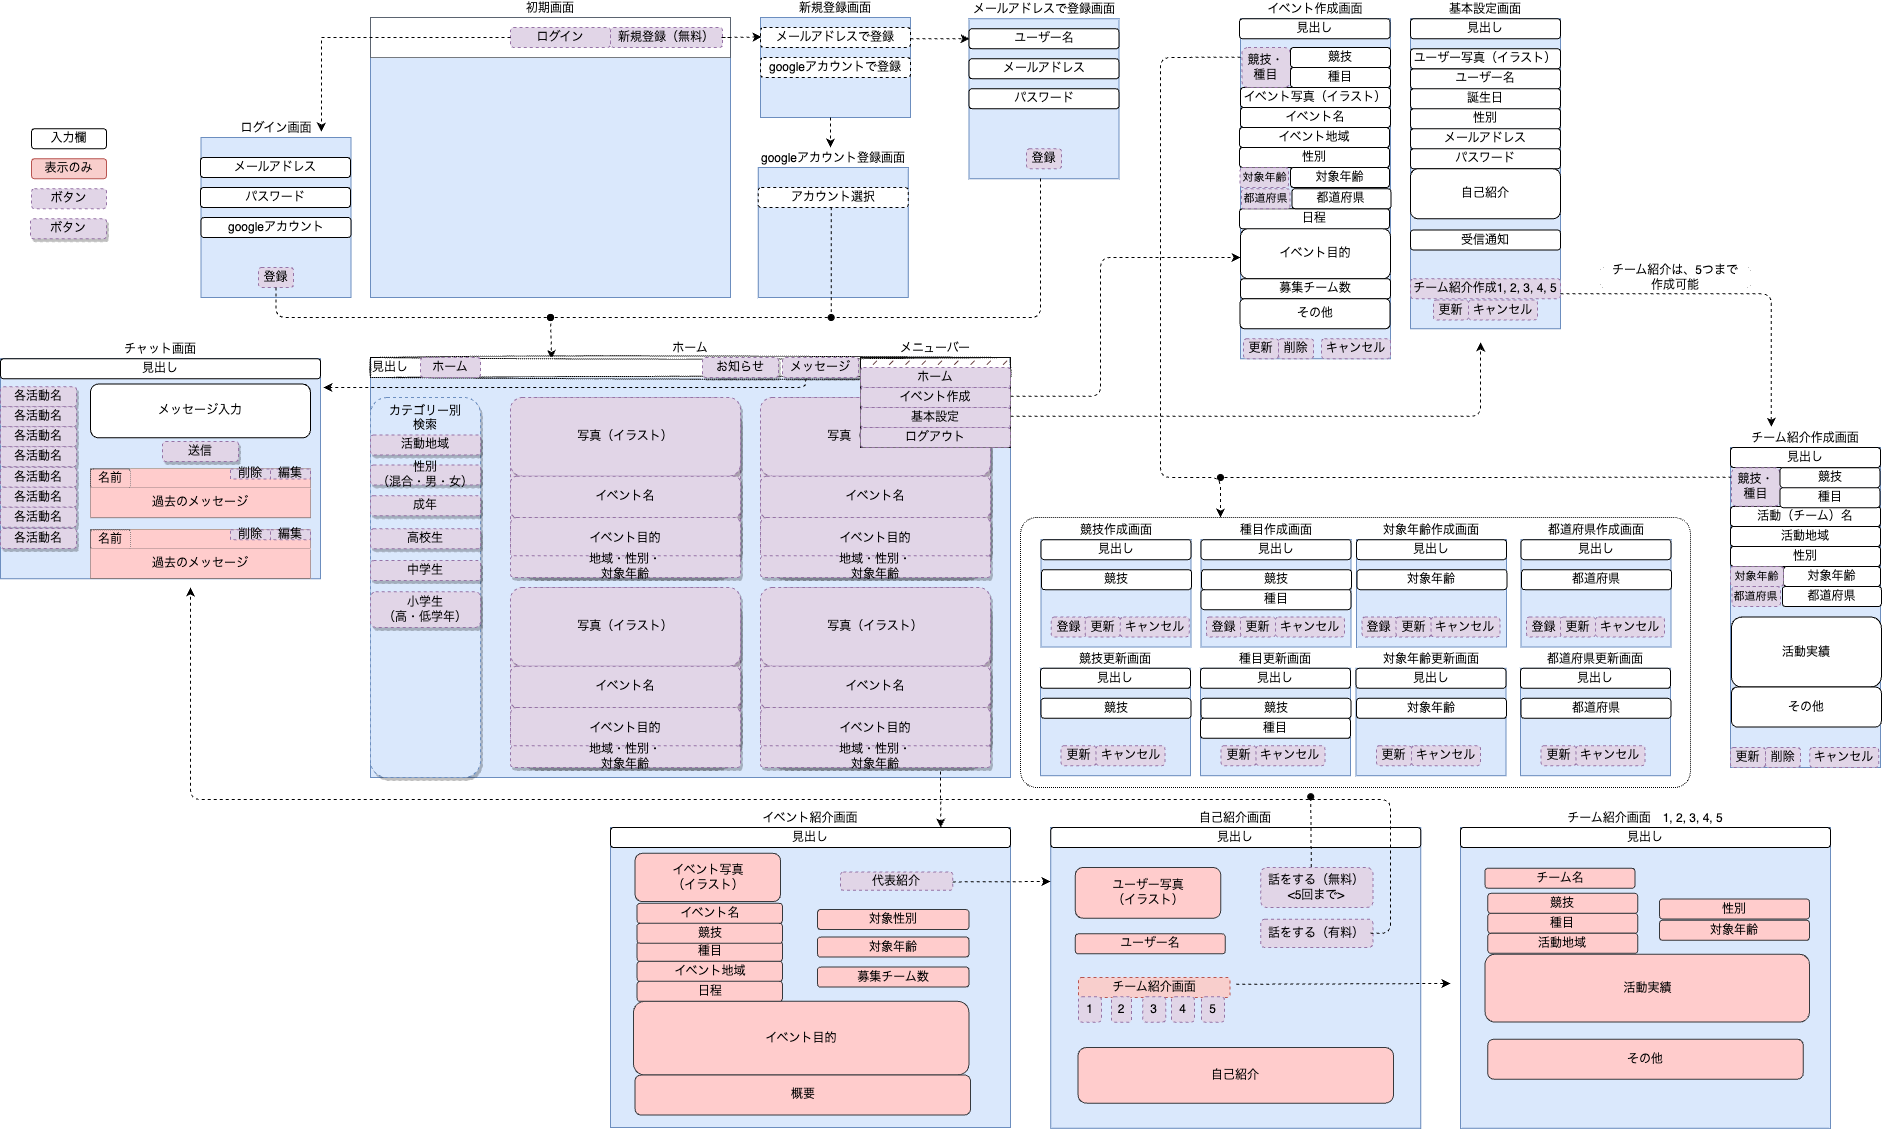
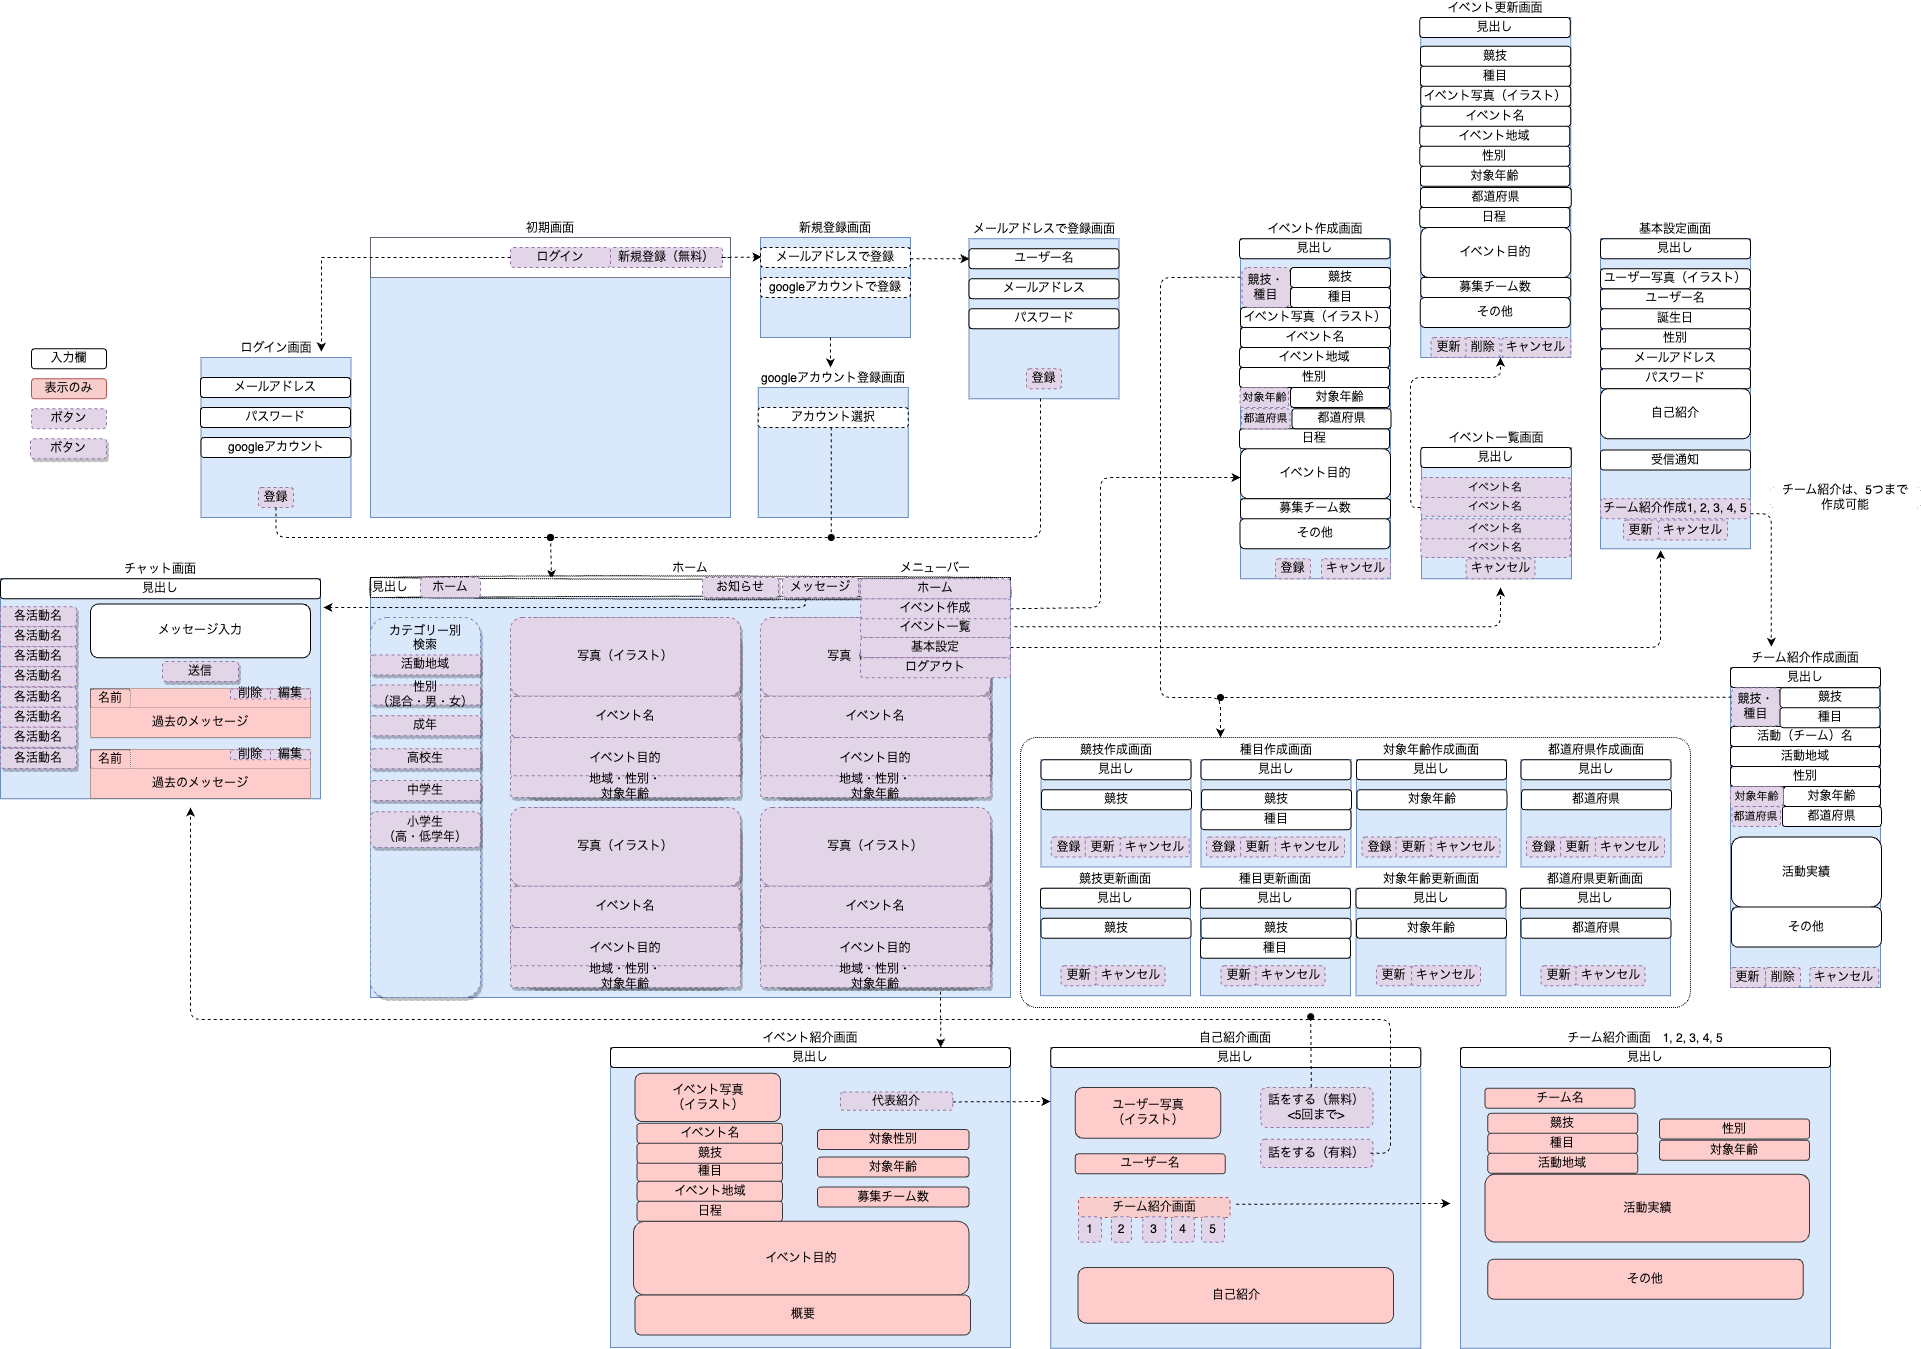
EventSettingListPage関係作成

diff --git a/frontend/src/views/MakingIntroductions/EventSettingListPage.vue b/frontend/src/views/MakingIntroductions/EventSettingListPage.vue
@@ -1,0 +1,55 @@
+<template>
+  <div class="flex items-center justify-center mt-12">
+    <div class="md:w-2/5 rounded-md shadow-gray-200 bg-sky-100">
+      <h2 class="text-center pt-10 font-bold text-3xl text-blue-600 mt-16 md:mt-1">イベント一覧</h2>
+      <button class="cancel_button mx-5 float-right" @click="EventSettingCancel">戻る</button>
+      <div class="my-14">
+        <div class="error text-sm text-red-400" v-for="(errMsg, index) in errors" :key="index">{{ errMsg }}</div>
+        <div class="text-left my-3 sm:ml-4 sm:mr-6 w-72 pt-3 ring-offset-2 ring-2 rounded-lg" type="text" v-for="recruitment in recruitments" :key="recruitment.id">イベント名:{{ recruitment.name }}
+          <div class="flex justify-center">
+            <button class="update_button" @click="editRecruitment(recruitment.id)">更新</button>
+          </div>
+        </div>
+      </div>
+    </div>
+  </div>
+</template>
+
+<script>
+import axios from 'axios';
+
+export default {
+  data() {
+    return {
+      recruitments: [],
+      errors: []
+    }
+  },
+  methods: {
+    async getRecruitment() {
+      try {
+        this.errors = []
+        const res = await axios.get(`http://localhost:3001/recruitments`, {
+          headers: {
+          uid: window.localStorage.getItem('uid'),
+          "access-token": window.localStorage.getItem('access-token'),
+          client: window.localStorage.getItem('client')
+          }
+        })
+        this.recruitments = res.data.data
+      } catch (error) {
+      this.errors.push('競技名を表示できませんでした。')
+      }
+    },
+    async editRecruitment(recruitmentId) {
+      this.$router.push({name: 'EventSettingEditPage', params: {id: recruitmentId} });
+    },
+    EventSettingCancel() {
+      this.$router.push({name: 'HomePage'})
+    }
+  },
+  mounted() {
+    this.getRecruitment()
+  }
+}
+</script>

diff --git a/frontend/src/components/HomeHeader.vue b/frontend/src/components/HomeHeader.vue
@@ -17,7 +17,10 @@
               <button @click="home">ホーム</button>
             </li>
             <li class="p-5 md:p-0 mx-5 hover:bg-sky-400 hover:text-white">
-              <button @click="event_setting">イベント作成</button>
+              <button @click="eventSetting">イベント作成</button>
+            </li>
+            <li class="p-5 md:p-0 mx-5 hover:bg-sky-400 hover:text-white">
+              <button @click="eventSettingList">イベント一覧</button>
             </li>
             <li class="p-5 md:p-0 mx-5">基本設定</li>
             <li class="p-5 md:p-0 mx-5">ログアウト</li>
@@ -36,14 +39,17 @@ export default {
     }
   },
   methods: {
-    toggle () {
+    toggle() {
       this.isClose = !this.isClose;
     },
-    home () {
+    home() {
       this.$router.push({name: 'HomePage'})
     },
-    event_setting () {
+    eventSetting() {
       this.$router.push({name: 'EventSettingPage'})
+    },
+    eventSettingList() {
+      this.$router.push({name: 'EventSettingListPage'})
     }
   }
 }

diff --git a/frontend/src/views/HomePage.vue b/frontend/src/views/HomePage.vue
@@ -1,0 +1,4 @@
+<template>
+  <div>
+  </div>
+</template>

diff --git a/frontend/src/views/MakingIntroductions/EventSettingEditPage.vue b/frontend/src/views/MakingIntroductions/EventSettingEditPage.vue
@@ -1,0 +1,4 @@
+<template>
+  <div>
+  </div>
+</template>

diff --git a/backend/config/environments/development.rb b/backend/config/environments/development.rb
@@ -60,10 +60,6 @@ Rails.application.configure do
   # Annotate rendered view with file names.
   # config.action_view.annotate_rendered_view_with_filenames = true
 
-  # Uncomment if you wish to allow Action Cable access from any origin.
-  # config.action_cable.disable_request_forgery_protection = true
-  config.WebSocketClient.disable_request_forgery_protection = true
-  
   config.action_mailer.default_options = { from: ENV['EMAIL_ADDRESS'] }
   config.action_mailer.delivery_method = :smtp
   config.action_mailer.smtp_settings = {
